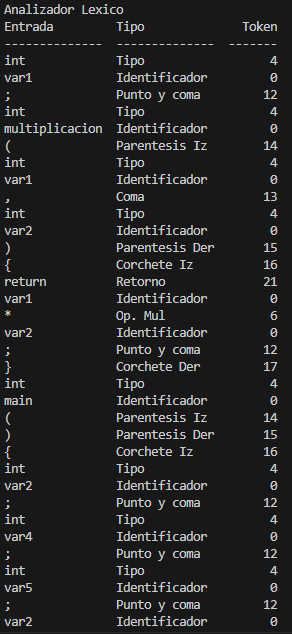
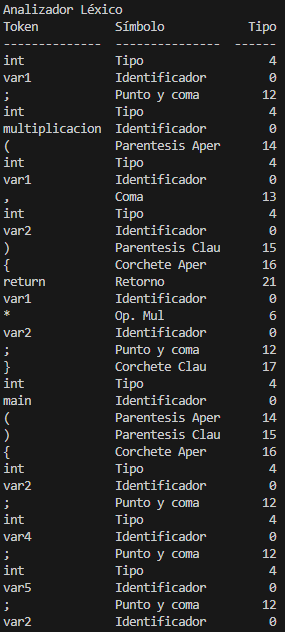
Final Final

Changed region(s): [[0.2807, 0.0, 0.7579, 0.9921], [0.0, 0.0, 0.3649, 0.9921], [0.814, 0.0301, 0.9825, 0.9921]]

diff --git a/Proyecto final/Semantico.py b/Proyecto final/Semantico.py
@@ -1495,7 +1495,7 @@ class analizador:
                 elif c == "(":
                     self.tmp +=c
                     self.tipo.append(14)
-                    objlex = Terminal(self.tmp, 'Parentesis Iz', self.tipo[-1])
+                    objlex = Terminal(self.tmp, 'Parentesis Aper', self.tipo[-1])
                     list_lex.append(objlex)
                     self.edo = 0
                     globals()['ban_p']+=1
@@ -1503,7 +1503,7 @@ class analizador:
                 elif c == ")":
                     self.tmp +=c
                     self.tipo.append(15)
-                    objlex = Terminal(self.tmp, 'Parentesis Der', self.tipo[-1])
+                    objlex = Terminal(self.tmp, 'Parentesis Clau', self.tipo[-1])
                     list_lex.append(objlex)
                     self.limpieza()
                     if globals()['ban_p']!=0:
@@ -1516,7 +1516,7 @@ class analizador:
                 elif c == "{":
                     self.tmp +=c
                     self.tipo.append(16)
-                    objlex = Terminal(self.tmp, 'Corchete Iz', self.tipo[-1])
+                    objlex = Terminal(self.tmp, 'Corchete Aper', self.tipo[-1])
                     list_lex.append(objlex)
                     self.edo = 0
                     globals()['ban_c']+=1
@@ -1524,7 +1524,7 @@ class analizador:
                 elif c == "}":
                     self.tmp +=c
                     self.tipo.append(17)
-                    objlex = Terminal(self.tmp, 'Corchete Der', self.tipo[-1])
+                    objlex = Terminal(self.tmp, 'Corchete Clau', self.tipo[-1])
                     list_lex.append(objlex)
                     self.limpieza()
                     if globals()['ban_c']!=0:
@@ -2152,7 +2152,7 @@ for objlex in list_lex:
     if band == 0:
         data.append([objlex.cad, objlex.tipo, objlex.pos])
     list_entrada.append(objlex.cad)
-print(tabulate(data, headers=["Entrada", "Tipo", "Token"]))
+print(tabulate(data, headers=["Token", "Símbolo", "Tipo"]))
 entrada.clear()    
 entrada=list_entrada
 auxelimna = (len(entrada)-2)*2
